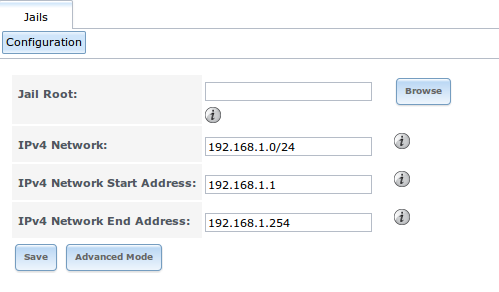
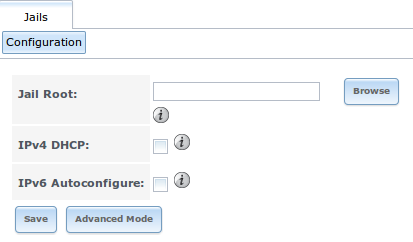
Add some screenshots to Jails chapter.
Former-commit-id: ded4a79c8f4aa25e81806758d7ca10270ca6ddc1

diff --git a/docs/userguide/freenas_jails.rst b/docs/userguide/freenas_jails.rst
@@ -68,42 +68,50 @@ named *jail1*, it will be installed into its own dataset named :file:`/mnt/volum
 .. warning:: if you have already installed a plugin, all of the fields in this screen will automatically be filled in. You should still double-check that
    the pre-configured IP addressing values are appropriate for your jails and will not conflict with addresses used by other systems on the network.
 
-Table 13.1a summarizes the fields in this configuration screen. Some settings are only available in "Advanced Mode". To see these settings, either click the
-"Advanced Mode" button or configure the system to always display these settings by checking the box "Show advanced fields by default" in
-:menuselection:`System --> Advanced`.
+Table 13.1a summarizes the fields in this configuration screen. Refer to the text below the table for more details on how to properly configure the "Jail
+Root" and network settings.  Some settings are only available in "Advanced Mode". To see these settings, either click the "Advanced Mode" button or configure
+the system to always display these settings by checking the box "Show advanced fields by default" in :menuselection:`System --> Advanced`.
 
 **Table 13.1a: Jail Configuration Options**
 
-+----------------------------+---------------+--------------------------------------------------------------------------+
-| **Setting**                | **Value**     | **Description**                                                          |
-|                            |               |                                                                          |
-|                            |               |                                                                          |
-+============================+===============+==========================================================================+
-| Jail Root                  | browse button | see explanation below table; mandatory as you cannot add a jail until    |
-|                            |               | this is set                                                              |
-|                            |               |                                                                          |
-+----------------------------+---------------+--------------------------------------------------------------------------+
-| IPv4 Network               | string        | see explanation below table; format is IP address of *network/CIDR mask* |
-|                            |               |                                                                          |
-+----------------------------+---------------+--------------------------------------------------------------------------+
-| IPv4 Network Start Address | string        | see explanation below table; format is IP address of *host/CIDR mask*    |
-|                            |               |                                                                          |
-+----------------------------+---------------+--------------------------------------------------------------------------+
-| IPv4 Network End Address   | string        | see explanation below table; format is IP address of *host/CIDR mask*    |
-|                            |               |                                                                          |
-+----------------------------+---------------+--------------------------------------------------------------------------+
-| IPv6 Network               | string        | only available in "Advanced Mode"; only set if jails are to be accessed  |
-|                            |               | over a properly configured IPv6 network                                  |
-+----------------------------+---------------+--------------------------------------------------------------------------+
-| IPv6 Network Start Address | string        | only available in "Advanced Mode"; only set if jails are to be accessed  |
-|                            |               | over a properly configured IPv6 network                                  |
-+----------------------------+---------------+--------------------------------------------------------------------------+
-| IPv6 Network End Address   | string        | only available in "Advanced Mode"; only set if jails are to be accessed  |
-|                            |               | over a properly configured IPv6 network                                  |
-+----------------------------+---------------+--------------------------------------------------------------------------+
-| Collection URL             | string        | only available in "Advanced Mode"; changing the default may break the    |
-|                            |               | ability to install jails                                                 |
-+----------------------------+---------------+--------------------------------------------------------------------------+
++----------------------------+---------------+--------------------------------------------------------------------------------+
+| **Setting**                | **Value**     | **Description**                                                                |
+|                            |               |                                                                                |
+|                            |               |                                                                                |
++============================+===============+================================================================================+
+| Jail Root                  | browse button | mandatory as you cannot add a jail until this is set                           |
+|                            |               |                                                                                |
++----------------------------+---------------+--------------------------------------------------------------------------------+
+| IPv4 DHCP                  | checkbox      | check this box if the network has a DHCP server                                |
+|                            |               |                                                                                |
++----------------------------+---------------+--------------------------------------------------------------------------------+
+| IPv4 Network               | string        | only available in "Advanced Mode"; format is IP address of *network/CIDR mask* |
+|                            |               |                                                                                |
++----------------------------+---------------+--------------------------------------------------------------------------------+
+| IPv4 Network Start Address | string        | only available in "Advanced Mode"; input the first IP address in the           |
+|                            |               | reserved range in the format *host/CIDR mask*                                  |
+|                            |               |                                                                                |
++----------------------------+---------------+--------------------------------------------------------------------------------+
+| IPv4 Network End Address   | string        | only available in "Advanced Mode"; input the last IP address in the reserved   |
+|                            |               | range in the format *host/CIDR mask*                                           |
+|                            |               |                                                                                |
++----------------------------+---------------+--------------------------------------------------------------------------------+
+| IPv6 Autoconfigure         | checkbox      | check this box if the network has a DHCPv6 server and you plan to use          |
+|                            |               | IPv6 to access jails                                                           |
+|                            |               |                                                                                |
++----------------------------+---------------+--------------------------------------------------------------------------------+
+| IPv6 Network               | string        | only available in "Advanced Mode"; input the network address                   |
+|                            |               | for a properly configured IPv6 network                                         |
++----------------------------+---------------+--------------------------------------------------------------------------------+
+| IPv6 Network Start Address | string        | only available in "Advanced Mode"; input the first IP address in the reserved  |
+|                            |               | range for a properly configured IPv6 network                                   |
++----------------------------+---------------+--------------------------------------------------------------------------------+
+| IPv6 Network End Address   | string        | only available in "Advanced Mode"; input the last IP address in the reserved   |
+|                            |               | range for a properly configured IPv6 network                                   |
++----------------------------+---------------+--------------------------------------------------------------------------------+
+| Collection URL             | string        | only available in "Advanced Mode"; changing the default may break the          |
+|                            |               | ability to install jails                                                       |
++----------------------------+---------------+--------------------------------------------------------------------------------+
 
 
 When selecting the "Jail Root", ensure that the size of the selected volume or dataset is sufficient to hold the number of jails to be installed as well
@@ -113,33 +121,27 @@ than 2GB in size.
 .. note:: if you plan to add storage to a jail, be aware that the path size is limited to 88 characters. Make sure that the length of your volume name plus the
    dataset name plus the jail name does not exceed this limit.
 
-FreeNAS® will automatically detect and display the "IPv4 Network" that the administrative interface is connected to. This setting is important as the IPv4
-network must be :command:`ping` able from the FreeNAS® system in order for your jails and any installed software to be accessible. If your network topology
-requires you to change the default value, you will also need to configure a default gateway, and possibly a static route, to the specified network. If you
+If the network contains a DHCP server, it is recommended to check the box "IPv4 DHCP" (or "IPv6 Autoconfigure, for a properly configured IPv6 network). This
+will prevent IP address conflicts on the network as the DHCP server will automatically assign the jail the next available lease and record the lease as in
+use.
+
+If a static IP address is needed so that users always know the IP address of the jail, input the start and end address for the IPv4 and/or IPv6 network. The
+range that you define by the start and end addresses will be automatically assigned as you create jails. For example, if you plan to create 5 jails on the
+192.168.1.0 network, you could input a "IPv4 Network Start Address" of 
+*192.168.1.100* and a "IPv4 Network End Address" of
+*192.168.1.104*.
+**If you create a start and end range on a network that contains a DHCP server, it is very important that you also reserve those addresses on the DHCP server.**
+Otherwise, the DHCP server will not be aware that those addresses are being used by jails and there will be IP address conflicts and weird networking errors
+on the network. When troubleshooting jails that do not install or which are unavailable, double-check that the IP address being used by the jail is not also
+being used by another jail or system in the network.
+
+FreeNAS® will automatically detect and display the "IPv4 Network" that the administrative interface is connected to. This setting is important as the IPv4 as
+the IP address(es) used by your jails must be :command:`ping` able from the FreeNAS® system in order for your jails and any installed software to be
+accessible. If your network topology requires you to change the default value, you will also need to configure a default gateway, and possibly a static route, to the specified network. If you
 change this value, ensure that the subnet mask value is correct as an incorrect mask can make the IP network unreachable. When in doubt, keep the default
 setting for "IPv4 Network". If you are using VMware, make sure that the vswitch is set to "promiscuous mode".
 
-Review the default values of the "IPv4 Network Start Address" and "IPv4 Network End Address" to determine if that range is appropriate for the number of jails
-that you will create. If there is a DHCP server on the network, make sure that this range of addresses is excluded from the scope of the DHCP server. As jails
-are created, they will automatically be assigned the next free IP address within the range specified by these two values.
-
-.. note:: these 4 fields are necessary for the proper operation of jails. If you are unable to add, start, or access the software installed into jails,
-   double-check the values in these fields. In particular, make sure that the specified IPv4 settings are reachable by clients and that the specified
-   addresses are not in use by any other clients in the network.
-
-The "Advanced Mode" fields only need to be completed if jails are to be accessible by IPv6 clients. You should not need to change the "Collection URL".
-
-Once you click the "Save" button to save the configuration, the "Jails" tab will change, as seen in the example shown in Figure 13.1b.
-
-**Figure 13.1b: Jails Tab**
-
-|jails2.png|
-
-.. |jails2.png| image:: images/jails2.png
-    :width: 4.2in
-    :height: 2.4in
-
-You can now create and manage jails as described in the rest of this chapter.
+Once you click the "Save" button to save the configuration, you are now ready to create and manage jails as described in the rest of this chapter.
 
 .. _Adding Jails:
 
@@ -155,11 +157,10 @@ To create a jail, click :menuselection:`Jails --> Add Jails` to access the scree
 |jails3.png|
 
 .. |jails3.png| image:: images/jails3.png
-    :width: 4.2in
-    :height: 2.4in
+    :width: 3.5in
+    :height: 2.9in
 
-By default, the only required value to create a jail is to give it a name and to double-check that the suggested IP address will not conflict with any other
-address being used on the network. The default is to create a FreeBSD jail.
+By default, the only required value to create a jail is to give it a name. The default is to create a FreeBSD jail.
 
 Table 13.2a summarizes the available options. Most settings are only available in "Advanced Mode" and are not needed if the intent is to create a FreeBSD
 jail. To see these settings, either click the "Advanced Mode" button or configure the system to always display these settings by checking the box "Show
@@ -175,61 +176,78 @@ advanced fields by default" in :menuselection:`System --> Advanced`.
 | Jail Name                 | string         | mandatory; can only contain letters and numbers                                                              |
 |                           |                |                                                                                                              |
 +---------------------------+----------------+--------------------------------------------------------------------------------------------------------------+
-| Template                  | drop-down menu | by default, contains the *VirtualBox* template for creating an instance of phpVirtualBox; advanced users can |
-|                           |                | create and install custom templates as described in `Managing Jail Templates`_                               |
+| Template                  | drop-down menu | only available in "Advanced Mode"; contains the *VirtualBox* template for creating an instance of            |
+|                           |                | phpVirtualBox; advanced users can create and install custom templates as described in                        |
+|                           |                | `Managing Jail Templates`_                                                                                   |
 |                           |                |                                                                                                              |
 +---------------------------+----------------+--------------------------------------------------------------------------------------------------------------+
-| IPv4 address              | integer        | will be automatically assigned the next free address from the range specified in "Jails Configuration"; if   |
-|                           |                | you change the default address, make sure it is reachable within the local network and is not in use by any  |
-|                           |                | other host on the network                                                                                    |
+| IPv4 DHCP                 | checkbox       | only available in "Advanced Mode"; if unchecked, make sure that the defined address does not conflict with   |
+|                           |                | the DHCP server's pool of available addresses                                                                |
 |                           |                |                                                                                                              |
 +---------------------------+----------------+--------------------------------------------------------------------------------------------------------------+
-| IPv4 netmask              | drop-down menu | select the subnet mask associated with "IPv4 address"                                                        |
+| IPv4 address              | integer        | only available in "Advanced Mode"; this and the other IPv4 settings will be greyed out if "IPv4 DHCP" is     |
+|                           |                | checked; input IP address that is reachable within the local network and is not in use by any other host in  |
+|                           |                | the network                                                                                                  |
+|                           |                |                                                                                                              |
++---------------------------+----------------+--------------------------------------------------------------------------------------------------------------+
+| IPv4 netmask              | drop-down menu | only available in "Advanced Mode"; select the subnet mask associated with "IPv4 address"                     |
 |                           |                |                                                                                                              |
 |                           |                |                                                                                                              |
 +---------------------------+----------------+--------------------------------------------------------------------------------------------------------------+
-| IPv4 bridge address       | integer        | see NOTE below; will be greyed out if "VIMAGE" is unchecked                                                  |
+| IPv4 bridge address       | integer        | only available in "Advanced Mode" and will be greyed out if "VIMAGE" is unchecked; see NOTE below            |
 |                           |                |                                                                                                              |
 +---------------------------+----------------+--------------------------------------------------------------------------------------------------------------+
-| IPv4 bridge netmask       | drop-down menu | select the subnet mask associated with "IPv4 bridge address"; will be greyed if "VIMAGE" is unchecked        |
+| IPv4 bridge netmask       | drop-down menu | only available in "Advanced Mode"; select the subnet mask associated with "IPv4 bridge address"; will be     |
+|                           |                | greyed if "VIMAGE" is unchecked                                                                              |
 |                           |                |                                                                                                              |
 +---------------------------+----------------+--------------------------------------------------------------------------------------------------------------+
-| IPv4 default gateway      | string         | used to set the jail's default gateway IPv4 address; will be greyed out if "VIMAGE" is unchecked             |
+| IPv4 default gateway      | string         | only available in "Advanced Mode"; will be greyed out if "VIMAGE" is unchecked                               |
 |                           |                |                                                                                                              |
 +---------------------------+----------------+--------------------------------------------------------------------------------------------------------------+
-| IPv6 address              | integer        | if IPv6 has been configured, will be automatically assigned the next free address from the range specified   |
-|                           |                | in "Jails Configuration"_                                                                                    |
+| IPv6 Autoconfigure        | checkbox       | only available in "Advanced Mode"; if unchecked, make sure that the defined address does not conflict with   |
+|                           |                | the DHCP server's pool of available addresses                                                                |
 |                           |                |                                                                                                              |
 +---------------------------+----------------+--------------------------------------------------------------------------------------------------------------+
-| IPv6 prefix length        | drop-down menu | select the prefix length associated with "IPv6 address"                                                      |
+| IPv6 address              | integer        | only available in "Advanced Mode"; this and the other IPv6 settings will be greyed out if "IPv6              |
+|                           |                | Autoconfigure" is checked; input IPv6 address that is reachable within the local network and is not in use   |
+|                           |                | by any other host in the network                                                                             |
 |                           |                |                                                                                                              |
 +---------------------------+----------------+--------------------------------------------------------------------------------------------------------------+
-| IPv6 bridge address       | integer        | see NOTE below; will be greyed if "VIMAGE" is unchecked                                                      |
+| IPv6 prefix length        | drop-down menu | only available in "Advanced Mode"; select the prefix length associated with "IPv6 address"                   |
 |                           |                |                                                                                                              |
 +---------------------------+----------------+--------------------------------------------------------------------------------------------------------------+
-| IPv6 bridge prefix length | drop-down menu | select the prefix length associated with "IPv6 address"; will be greyed out if "VIMAGE" is unchecked         |
+| IPv6 bridge address       | integer        | only available in "Advanced Mode" and will be greyed if "VIMAGE" is unchecked; see NOTE below                |
 |                           |                |                                                                                                              |
 +---------------------------+----------------+--------------------------------------------------------------------------------------------------------------+
-| IPv6 default gateway      | string         | used to set the jail's default gateway IPv6 address; will be greyed out if "VIMAGE" is unchecked             |
+| IPv6 bridge prefix length | drop-down menu | only available in "Advanced Mode" and will be greyed out if "VIMAGE" is unchecked; select the prefix length  |
+|                           |                | associated with "IPv6 address"                                                                               |
 |                           |                |                                                                                                              |
 +---------------------------+----------------+--------------------------------------------------------------------------------------------------------------+
-| MAC                       | string         | if a static MAC address is needed, input it here; will be greyed out if "VIMAGE" is unchecked                |
+| IPv6 default gateway      | string         | only available in "Advanced Mode" and will be greyed if "VIMAGE" is unchecked; used to set the jail's        |
+|                           |                | default gateway IPv6 address                                                                                 |
 |                           |                |                                                                                                              |
 +---------------------------+----------------+--------------------------------------------------------------------------------------------------------------+
-| NIC                       | drop-down menu | can be used to specify the interface to use for jail connections; will be greyed out if "VIMAGE" is checked  |
-|                           |                | as you cannot bind to an interface when using "VIMAGE"                                                       |
-+---------------------------+----------------+--------------------------------------------------------------------------------------------------------------+
-| Sysctls                   | string         | comma-delimited list of sysctls to set inside jail (e.g. *allow.sysvipc=1,allow.raw_sockets=1*)              |
+| MAC                       | string         | only available in "Advanced Mode" and will be greyed out if "VIMAGE" is unchecked; if a static MAC address   |
+|                           |                | is needed, input it here                                                                                     |
 |                           |                |                                                                                                              |
 +---------------------------+----------------+--------------------------------------------------------------------------------------------------------------+
-| Autostart                 | checkbox       | uncheck if you want to start the jail manually                                                               |
+| NIC                       | drop-down menu | only available in "Advanced Mode" and will be greyed out if "VIMAGE" is unchecked; can be used to specify    |
+|                           |                | the interface to use for jail connections                                                                    |
 |                           |                |                                                                                                              |
 +---------------------------+----------------+--------------------------------------------------------------------------------------------------------------+
-| VIMAGE                    | checkbox       | gives a jail its own virtualized network stack; requires promiscuous mode to be enabled on the interface     |
+| Sysctls                   | string         | only available in "Advanced Mode"; comma-delimited list of sysctls to set inside jail (e.g.                  |
+|                           |                | *allow.sysvipc=1,allow.raw_sockets=1*)                                                                       |
 |                           |                |                                                                                                              |
 +---------------------------+----------------+--------------------------------------------------------------------------------------------------------------+
-| NAT                       | checkbox       | enables Network Address Translation for the jail; will be greyed out for Linux jails or if "VIMAGE" is       |
-|                           |                | unchecked                                                                                                    |
+| Autostart                 | checkbox       | only available in "Advanced Mode"; uncheck if you want to start the jail manually                            |
+|                           |                |                                                                                                              |
++---------------------------+----------------+--------------------------------------------------------------------------------------------------------------+
+| VIMAGE                    | checkbox       | only available in "Advanced Mode"; gives a jail its own virtualized network stack; requires promiscuous mode |
+|                           |                | to be enabled on the interface                                                                               |
+|                           |                |                                                                                                              |
++---------------------------+----------------+--------------------------------------------------------------------------------------------------------------+
+| NAT                       | checkbox       | only available in "Advanced Mode" and will be greyed out for Linux jails or if "VIMAGE" is unchecked;        |
+|                           |                | enables Network Address Translation for the jail                                                             |
 |                           |                |                                                                                                              |
 +---------------------------+----------------+--------------------------------------------------------------------------------------------------------------+
 
